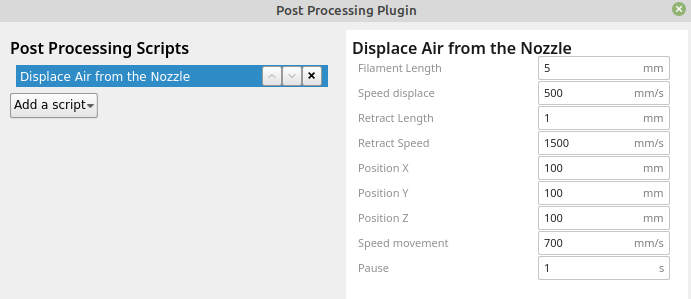
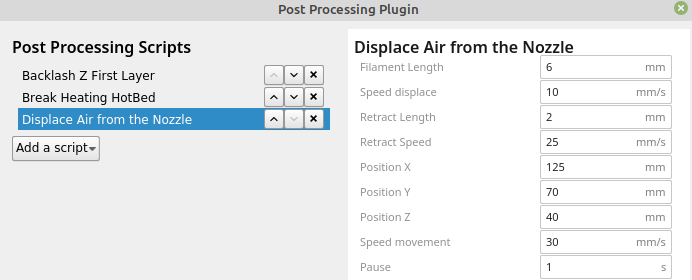
Some fixes in CURA Script - displace_air_from_nozzle - mm/s mm/min

diff --git a/cura/displace_air_from_nozzle/displace_air_from_nozzle.py b/cura/displace_air_from_nozzle/displace_air_from_nozzle.py
@@ -25,7 +25,7 @@ class displace_air_from_nozzle(Script):
 					"description": "Length of filament to displace the air from nozzle",
 					"unit": "mm",
 					"type": "float",
-					"default_value": 5,
+					"default_value": 6,
 					"minimum_value": "0"
 				},
 				"speeddisplace":
@@ -34,8 +34,8 @@ class displace_air_from_nozzle(Script):
 					"description": "Speed to displace the air from nozzle",
 					"unit": "mm/s",
 					"type": "int",
-					"default_value": 500,
-					"minimum_value": "100"
+					"default_value": 10,
+					"minimum_value": "1"
 				},
 				"retractlength":
 				{
@@ -43,7 +43,7 @@ class displace_air_from_nozzle(Script):
 					"description": "Length of retract",
 					"unit": "mm",
 					"type": "float",
-					"default_value": 1,
+					"default_value": 2,
 					"minimum_value": "0"
 				},
 				"retractspeed":
@@ -52,8 +52,8 @@ class displace_air_from_nozzle(Script):
 					"description": "Retract speed",
 					"unit": "mm/s",
 					"type": "int",
-					"default_value": 1500,
-					"minimum_value": "100"
+					"default_value": 25,
+					"minimum_value": "1"
 				},
 				"positionX":
 				{
@@ -61,7 +61,7 @@ class displace_air_from_nozzle(Script):
 					"description": "Position X",
 					"unit": "mm",
 					"type": "float",
-					"default_value": 100
+					"default_value": 125
 				},
 				"positionY":
 				{
@@ -69,7 +69,7 @@ class displace_air_from_nozzle(Script):
 					"description": "Position Y",
 					"unit": "mm",
 					"type": "float",
-					"default_value": 100
+					"default_value": 70
 				},
 				"positionZ":
 				{
@@ -77,7 +77,7 @@ class displace_air_from_nozzle(Script):
 					"description": "Position Z",
 					"unit": "mm",
 					"type": "float",
-					"default_value": 100
+					"default_value": 40
 				},
 				"positionspeed":
 				{
@@ -85,7 +85,7 @@ class displace_air_from_nozzle(Script):
 					"description": "Speed movement",
 					"unit": "mm/s",
 					"type": "int",
-					"default_value": 500
+					"default_value": 30
 				},
 				"pause":
 				{
@@ -93,7 +93,8 @@ class displace_air_from_nozzle(Script):
 					"description": "Pause after displace",
 					"unit": "s",
 					"type": "int",
-					"default_value": 1
+					"default_value": 1,
+					"minimum_value": "0"
 				}
 			}
 		}"""
@@ -101,15 +102,21 @@ class displace_air_from_nozzle(Script):
 	def execute(self, data: list):
 		
 		length=self.getSettingValueByKey("filamentlength")
-		speed=self.getSettingValueByKey("speeddisplace")
+		
+		speed_displace=self.getSettingValueByKey("speeddisplace")
+		speed_displace=speed_displace*60 
 		
 		retract=self.getSettingValueByKey("retractlength")
+		
 		retract_speed=self.getSettingValueByKey("retractspeed")
+		retract_speed=retract_speed*60
 		
 		position_X=self.getSettingValueByKey("positionX")
 		position_Y=self.getSettingValueByKey("positionY")
 		position_Z=self.getSettingValueByKey("positionZ")
+		
 		position_speed=self.getSettingValueByKey("positionspeed")
+		position_speed=position_speed*60
 		
 		pause=self.getSettingValueByKey("pause")
 		
@@ -126,9 +133,10 @@ class displace_air_from_nozzle(Script):
 					
 					new_lines = "M17" + "\n"
 					new_lines = new_lines + "G0 F" + str(position_speed) + " X" + str(position_X) + " Y" + str(position_Y) + " Z" + str(position_Z) + "\n"
-					new_lines = new_lines + "G1 F" + str(speed) + " E" + str(length) + " R" + "\n"
+					new_lines = new_lines + "G1 F" + str(speed_displace) + " E" + str(length) + " R" + "\n"
 					new_lines = new_lines + "G1 F" + str(retract_speed) + " E-" + str(retract) + " R" + "\n"
-					new_lines = new_lines + "M0 S" + str(pause) + "\n"
+					if pause > 0:
+						new_lines = new_lines + "M0 S" + str(pause) + "\n"
 					layer_lines[index] =  new_lines + layer_lines[index]
 					data[1] = '\n'.join(layer_lines)
 					break

diff --git a/3d-models/Direct_BMG_E3DV6/README.md b/3d-models/Direct_BMG_E3DV6/README.md
@@ -1,5 +1,5 @@
 # Модели для установки BMG + E3DV6 + 20mm Motor + BL-TOUCH + BLK
-Вариант компновки для штатного портала оси Y с направляющей сверху.
+Вариант компоновки для штатного портала оси Y с направляющей сверху.
 
 ## Создано на основе работ Дмитрия Соркина:
 [Комплект моделей для установки директа](https://www.thingiverse.com/thing:3727277)  
